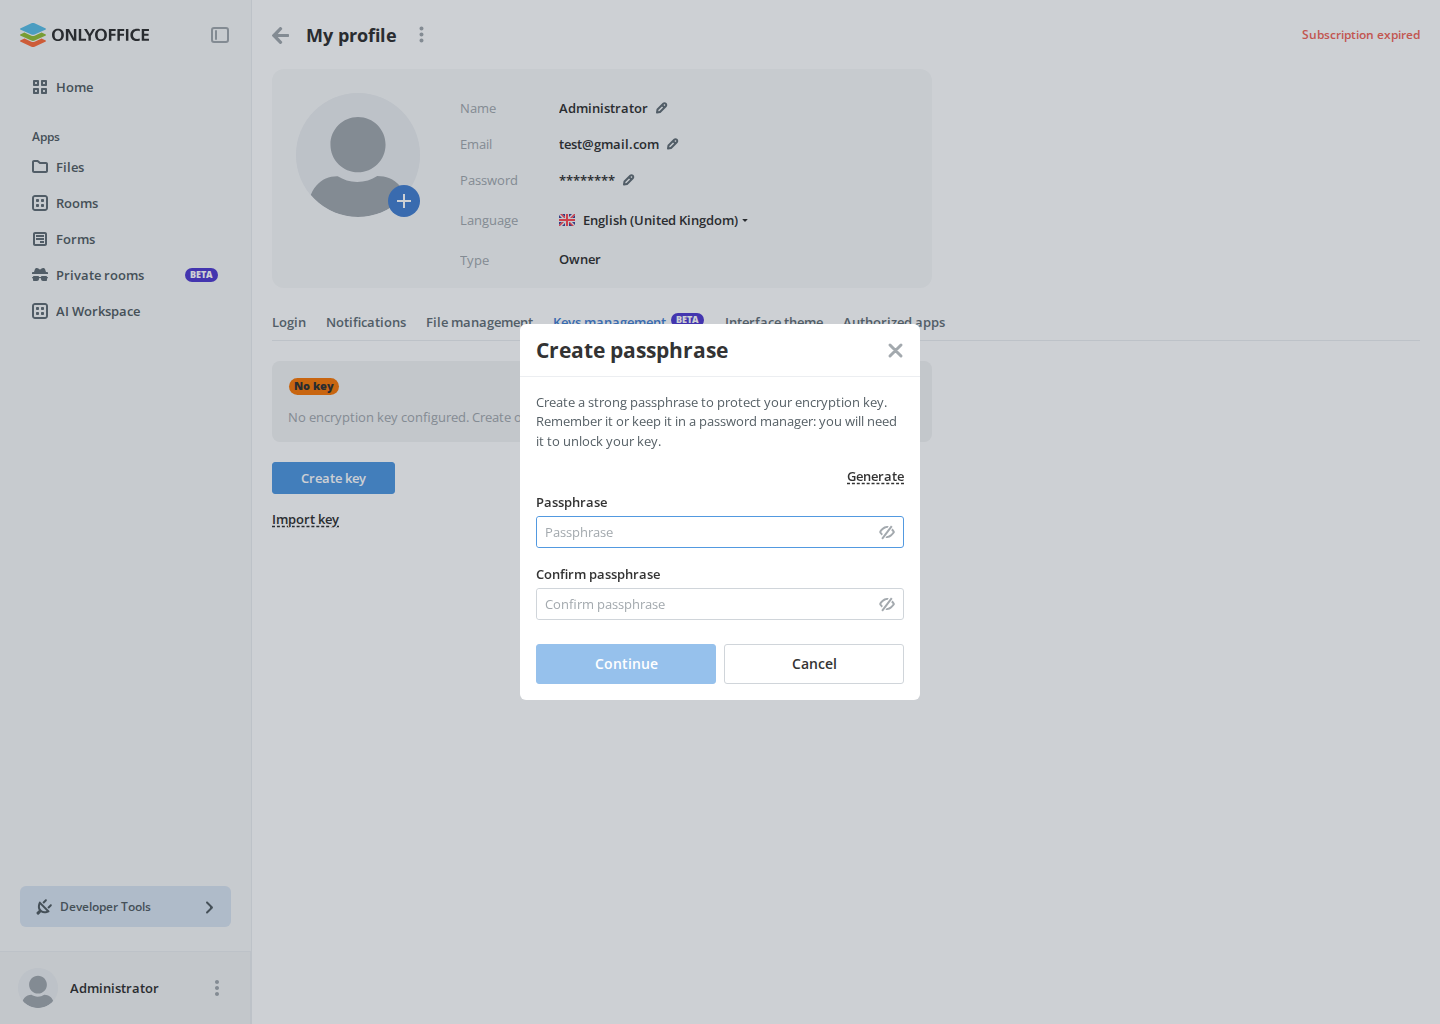
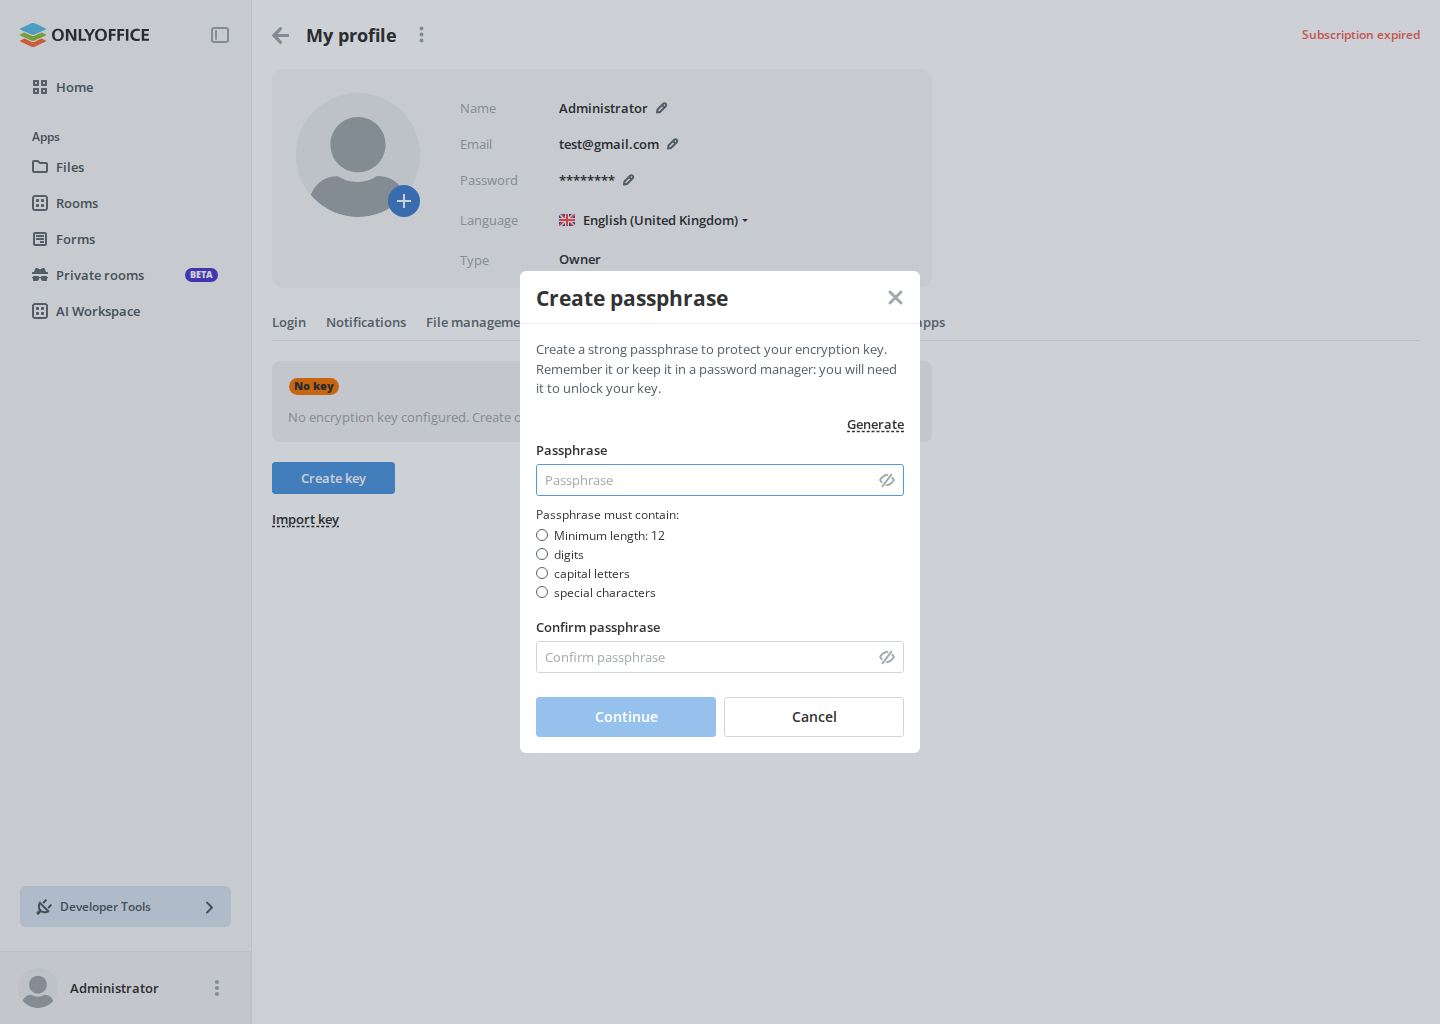
Shared: Private rooms: list the passphrase rules under the field
The rules of a new passphrase were the tooltip of the kit's password
input, which opened over the hint of the dialog and its generate action.
The key creation dialog and the passphrase change dialog now turn that
tooltip off and list the rules in the form, under the passphrase field,
each marked met or unmet as the user types. The list reads the rules
from the passphrase strength service, which checks them with the same
settings as the kit, so the list, the grade and the confirm action agree.

The screenshots of the creation dialog on a wide and a narrow screen are
updated for the list.

OpenSpec: private-rooms-release-ux-fixes 1.3

Changed region(s): [[0.3438, 0.25, 0.6562, 0.75]]

diff --git a/packages/shared/dialogs/passphrase-modal/PassphraseRulesList.tsx b/packages/shared/dialogs/passphrase-modal/PassphraseRulesList.tsx
@@ -1,0 +1,105 @@
+/*
+ * Copyright (C) Ascensio System SIA, 2009-2026
+ *
+ * This program is a free software product. You can redistribute it and/or
+ * modify it under the terms of the GNU Affero General Public License (AGPL)
+ * version 3 as published by the Free Software Foundation, together with the
+ * additional terms provided in the LICENSE file.
+ *
+ * This program is distributed WITHOUT ANY WARRANTY; without even the implied
+ * warranty of MERCHANTABILITY or FITNESS FOR A PARTICULAR PURPOSE. For
+ * details, see the GNU AGPL at: https://www.gnu.org/licenses/agpl-3.0.html
+ *
+ * You can contact Ascensio System SIA by email at info@onlyoffice.com
+ * or by postal mail at 20A-6 Ernesta Birznieka-Upisha Street, Riga,
+ * LV-1050, Latvia, European Union.
+ *
+ * The interactive user interfaces in modified versions of the Program
+ * are required to display Appropriate Legal Notices in accordance with
+ * Section 5 of the GNU AGPL version 3.
+ *
+ * No trademark rights are granted under this License.
+ *
+ * All non-code elements of the Product, including illustrations,
+ * icon sets, and technical writing content, are licensed under the
+ * Creative Commons Attribution-ShareAlike 4.0 International License:
+ * https://creativecommons.org/licenses/by-sa/4.0/legalcode
+ *
+ * This license applies only to such non-code elements and does not
+ * modify or replace the licensing terms applicable to the Program's
+ * source code, which remains licensed under the GNU Affero General
+ * Public License v3.
+ *
+ * SPDX-License-Identifier: AGPL-3.0-only
+ */
+
+import React from "react";
+import classNames from "classnames";
+import { useTranslation } from "react-i18next";
+
+import { Text } from "@onlyoffice/apps-ui-kit/components/text";
+
+import CheckIcon from "PUBLIC_DIR/images/check.react.svg";
+
+import {
+  PASSPHRASE_MIN_LENGTH,
+  checkPassphraseRules,
+} from "@docspace/shared/services/encryption/passphrase-strength";
+
+import styles from "./PassphraseModal.module.scss";
+
+type PassphraseRulesListProps = {
+  passphrase: string;
+};
+
+// Spec: private-rooms/key-management, "The list of passphrase rules leaves the dialog readable"
+export const PassphraseRulesList = ({ passphrase }: PassphraseRulesListProps) => {
+  const { t } = useTranslation(["Common"]);
+  const met = checkPassphraseRules(passphrase);
+
+  const rules = [
+    {
+      id: "length",
+      met: met.length,
+      label: `${t("Common:PasswordMinimumLength")}: ${PASSPHRASE_MIN_LENGTH}`,
+    },
+    { id: "digits", met: met.digits, label: t("Common:PasswordLimitDigits") },
+    {
+      id: "capital",
+      met: met.capital,
+      label: t("Common:PasswordLimitUpperCase"),
+    },
+    {
+      id: "special",
+      met: met.special,
+      label: t("Common:PasswordLimitSpecialSymbols"),
+    },
+  ];
+
+  return (
+    <div className={styles.rules} data-testid="passphrase_rules">
+      <Text fontSize="12px">
+        {`${t("Common:PassphraseLimitMessage")}:`}
+      </Text>
+      <ul className={styles.rulesList}>
+        {rules.map((rule) => (
+          <li
+            key={rule.id}
+            className={classNames(styles.rule, { [styles.ruleMet]: rule.met })}
+            data-testid={`passphrase_rule_${rule.id}`}
+            data-met={rule.met}
+          >
+            <span className={styles.ruleMark} aria-hidden="true">
+              {rule.met ? <CheckIcon /> : null}
+            </span>
+            <Text as="span" fontSize="12px">
+              {rule.label}
+            </Text>
+          </li>
+        ))}
+      </ul>
+    </div>
+  );
+};
+
+export default PassphraseRulesList;

diff --git a/packages/shared/dialogs/passphrase-modal/__tests__/PassphraseModal.test.tsx b/packages/shared/dialogs/passphrase-modal/__tests__/PassphraseModal.test.tsx
@@ -372,6 +372,83 @@ describe("PassphraseModal", () => {
     });
   });
 
+  describe("The list of passphrase rules leaves the dialog readable", () => {
+    const originalWidth = window.innerWidth;
+    const setWidth = (width: number) =>
+      Object.defineProperty(window, "innerWidth", {
+        configurable: true,
+        value: width,
+      });
+
+    afterEach(() => setWidth(originalWidth));
+
+    const follows = (first: Element, second: Element) =>
+      !!(
+        first.compareDocumentPosition(second) &
+        Node.DOCUMENT_POSITION_FOLLOWING
+      );
+
+    // The list sits in the flow of the form, between the passphrase field and
+    // its confirmation, and is the only place the rules are shown.
+    const expectRulesInFlow = () => {
+      const list = screen.getByTestId("passphrase_rules");
+      expect(list.closest("[role='tooltip'], .react-tooltip")).toBeNull();
+      expect(follows(getPassphraseInput(), list)).toBe(true);
+      expect(follows(list, getConfirmInput())).toBe(true);
+      expect(
+        screen.getAllByText("Common:PassphraseLimitMessage:"),
+      ).toHaveLength(1);
+      return list;
+    };
+
+    it("Rules shown while typing", async () => {
+      const user = userEvent.setup();
+      renderModal({ isNew: true });
+
+      await user.type(getPassphraseInput(), "lorem ipsum dolor sitx");
+
+      const list = expectRulesInFlow();
+      expect(within(list).getByTestId("passphrase_rule_length")).toHaveAttribute(
+        "data-met",
+        "true",
+      );
+      for (const rule of ["digits", "capital", "special"]) {
+        expect(
+          within(list).getByTestId(`passphrase_rule_${rule}`),
+        ).toHaveAttribute("data-met", "false");
+      }
+      expect(screen.getByText("Common:CreatePassphraseHint")).toBeVisible();
+      expect(screen.getByTestId("generate_passphrase_link")).toBeVisible();
+
+      await user.click(screen.getByTestId("generate_passphrase_link"));
+      for (const rule of ["length", "digits", "capital", "special"]) {
+        expect(
+          within(list).getByTestId(`passphrase_rule_${rule}`),
+        ).toHaveAttribute("data-met", "true");
+      }
+    });
+
+    it("Narrow screen", async () => {
+      setWidth(375);
+      const user = userEvent.setup();
+      const { onSubmit } = renderModal({ isNew: true });
+      const panel = document.querySelector<HTMLElement>(
+        "[class*='displayTypeAside']",
+      );
+      expect(panel).not.toBeNull();
+
+      await user.type(getPassphraseInput(), "Tx7$kp!aL2nQz@vR");
+
+      const list = expectRulesInFlow();
+      expect(panel).toContainElement(list);
+      await user.type(getConfirmInput(), "Tx7$kp!aL2nQz@vR");
+      await user.click(
+        screen.getByRole("button", { name: "Common:ContinueButton" }),
+      );
+      expect(onSubmit).toHaveBeenCalledWith("Tx7$kp!aL2nQz@vR", undefined);
+    });
+  });
+
   // Spec: private-rooms/key-management, "Key dialogs ignore a click beside them"
   it("Backdrop click on the unlock prompt", () => {
     const { onCancel } = renderModal();

diff --git a/packages/shared/services/encryption/passphrase-strength.ts b/packages/shared/services/encryption/passphrase-strength.ts
@@ -197,21 +197,36 @@ export function isPassphraseAcceptable(
   return result.strength !== "weak";
 }
 
-const COMPOSITION_RULES: ReadonlyArray<RegExp> = [
-  PASSPHRASE_SETTINGS.upperCaseRegexStr,
-  PASSPHRASE_SETTINGS.digitsRegexStr,
-  PASSPHRASE_SETTINGS.specSymbolsRegexStr,
-].map((rule) => new RegExp(rule));
+export type PassphraseRules = {
+  length: boolean;
+  capital: boolean;
+  digits: boolean;
+  special: boolean;
+};
+
+const CAPITAL_RULE = new RegExp(PASSPHRASE_SETTINGS.upperCaseRegexStr);
+const DIGITS_RULE = new RegExp(PASSPHRASE_SETTINGS.digitsRegexStr);
+const SPECIAL_RULE = new RegExp(PASSPHRASE_SETTINGS.specSymbolsRegexStr);
 
 /**
- * Whether a new passphrase meets the length, the composition and the
- * common-pattern rule, checked as the kit's password input checks the first
- * two with PASSPHRASE_SETTINGS.
+ * Which length and composition rules a new passphrase meets, checked as the
+ * kit's password input checks them with PASSPHRASE_SETTINGS.
  */
+export function checkPassphraseRules(passphrase: string): PassphraseRules {
+  return {
+    length: passphrase.trim().length >= PASSPHRASE_SETTINGS.minLength,
+    capital: CAPITAL_RULE.test(passphrase),
+    digits: DIGITS_RULE.test(passphrase),
+    special: SPECIAL_RULE.test(passphrase),
+  };
+}
+
+/** Whether a new passphrase meets the length, composition and common-pattern rules. */
 export function meetsPassphraseRules(passphrase: string): boolean {
-  if (passphrase.trim().length < PASSPHRASE_SETTINGS.minLength) return false;
-  if (!COMPOSITION_RULES.every((rule) => rule.test(passphrase))) return false;
-  return !containsCommonPattern(passphrase);
+  const rules = checkPassphraseRules(passphrase);
+  return (
+    Object.values(rules).every(Boolean) && !containsCommonPattern(passphrase)
+  );
 }
 
 // Spec: private-rooms/key-management, "The strength grade does not contradict the passphrase rules"

diff --git a/packages/client/src/pages/Profile/Section/Body/sub-components/keys-management/modals/KeyRotationDialog.tsx b/packages/client/src/pages/Profile/Section/Body/sub-components/keys-management/modals/KeyRotationDialog.tsx
@@ -59,6 +59,7 @@ import {
   isPassphraseAcceptable,
 } from "@docspace/shared/services/encryption/passphrase-strength";
 import { PASSPHRASE_SETTINGS } from "@docspace/shared/dialogs/passphrase-modal/PassphraseModal";
+import { PassphraseRulesList } from "@docspace/shared/dialogs/passphrase-modal/PassphraseRulesList";
 import { PassphraseStrengthLine } from "@docspace/shared/dialogs/passphrase-modal/PassphraseStrengthLine";
 
 import styles from "./KeyRotationDialog.module.scss";
@@ -292,13 +293,7 @@ export const KeyRotationDialog: React.FC<KeyRotationDialogProps> = ({
                   onValidateInput={(progressScore) =>
                     setRulesPassed(progressScore)
                   }
-                  tooltipPasswordTitle={`${t("Common:PassphraseLimitMessage")}:`}
-                  tooltipPasswordLength={`${t(
-                    "Common:PasswordMinimumLength",
-                  )}: ${PASSPHRASE_MIN_LENGTH}`}
-                  tooltipPasswordDigits={t("Common:PasswordLimitDigits")}
-                  tooltipPasswordCapital={t("Common:PasswordLimitUpperCase")}
-                  tooltipPasswordSpecial={t("Common:PasswordLimitSpecialSymbols")}
+                  isDisableTooltip
                   isDisabled={isLoading}
                   hasError={!!newFieldError}
                   autoComplete="new-password"
@@ -306,6 +301,7 @@ export const KeyRotationDialog: React.FC<KeyRotationDialogProps> = ({
                   tabIndex={0}
                 />
               </FieldContainer>
+              <PassphraseRulesList passphrase={newPassphrase} />
               <PassphraseStrengthLine passphrase={newPassphrase} />
             </div>
 

diff --git a/packages/shared/dialogs/passphrase-modal/PassphraseModal.tsx b/packages/shared/dialogs/passphrase-modal/PassphraseModal.tsx
@@ -71,6 +71,7 @@ import {
   isPassphraseAcceptable,
 } from "@docspace/shared/services/encryption/passphrase-strength";
 
+import { PassphraseRulesList } from "./PassphraseRulesList";
 import { PassphraseStrengthLine } from "./PassphraseStrengthLine";
 import styles from "./PassphraseModal.module.scss";
 
@@ -285,13 +286,7 @@ export const PassphraseModal: React.FC<PassphraseModalProps> = ({
                   onValidateInput={(progressScore) =>
                     setRulesPassed(progressScore)
                   }
-                  tooltipPasswordTitle={`${t("Common:PassphraseLimitMessage")}:`}
-                  tooltipPasswordLength={`${t(
-                    "Common:PasswordMinimumLength",
-                  )}: ${MIN_LENGTH}`}
-                  tooltipPasswordDigits={t("Common:PasswordLimitDigits")}
-                  tooltipPasswordCapital={t("Common:PasswordLimitUpperCase")}
-                  tooltipPasswordSpecial={t("Common:PasswordLimitSpecialSymbols")}
+                  isDisableTooltip
                   isDisabled={isLoading}
                   hasError={passphraseHasError}
                   isAutoFocussed
@@ -301,6 +296,7 @@ export const PassphraseModal: React.FC<PassphraseModalProps> = ({
                 />
               </FieldContainer>
 
+              {isNew ? <PassphraseRulesList passphrase={passphrase} /> : null}
               {isNew ? <PassphraseStrengthLine passphrase={passphrase} /> : null}
               {isNew && containsCommonPattern(passphrase) ? (
                 <Text fontSize="12px" color="var(--status-error)">

diff --git a/packages/shared/dialogs/passphrase-modal/PassphraseModal.module.scss b/packages/shared/dialogs/passphrase-modal/PassphraseModal.module.scss
@@ -92,6 +92,53 @@
   margin-top: 4px;
 }
 
+.rules {
+  display: flex;
+  flex-direction: column;
+  gap: 4px;
+  margin-top: 4px;
+}
+
+.rulesList {
+  display: flex;
+  flex-direction: column;
+  gap: 2px;
+  margin: 0;
+  padding: 0;
+  list-style: none;
+}
+
+.rule {
+  display: flex;
+  align-items: center;
+  gap: 6px;
+}
+
+.ruleMark {
+  display: inline-flex;
+  flex-shrink: 0;
+  align-items: center;
+  justify-content: center;
+  box-sizing: border-box;
+  width: 12px;
+  height: 12px;
+  border: 1px solid var(--text-secondary);
+  border-radius: 50%;
+
+  svg {
+    width: 12px;
+    height: 12px;
+  }
+
+  svg path {
+    fill: var(--status-icon-color-positive);
+  }
+}
+
+.ruleMet .ruleMark {
+  border-color: transparent;
+}
+
 .forgotRow {
   display: flex;
   justify-content: flex-start;

diff --git a/openspec/changes/private-rooms-release-ux-fixes/tasks.md b/openspec/changes/private-rooms-release-ux-fixes/tasks.md
@@ -8,7 +8,7 @@ and SDK unit tests must stay green.
 
 - [x] 1.1 Read how the kit's password input shows its rules and whether it can be shown without that tooltip; record the answer in design.md. Verify: the note in design.md names the kit file and the property, or states that the kit needs a switch
 - [x] 1.2 Cap the shown grade at `Common:PassphraseStrengthWeak` while the passphrase fails a rule, through one function used by creation and by the passphrase change (`packages/shared/dialogs/passphrase-modal/PassphraseModal.tsx`, `packages/client/src/pages/Profile/Section/Body/sub-components/keys-management/modals/KeyRotationDialog.tsx`). Verify: a unit test of the function and cases named after the scenarios of "The strength grade does not contradict the passphrase rules" in `packages/shared/dialogs/passphrase-modal/__tests__/PassphraseModal.test.tsx` and in `keys-management/modals/__tests__/KeyRotationDialog.test.tsx`
-- [ ] 1.3 After 1.1: list the rules under the passphrase field of both forms, marked met or unmet, and stop showing them in the tooltip; add the kit switch first if 1.1 found it missing (`docspace-ui-kit-react`, `release/v4.1.0`, `pnpm build && pnpm verify:package && pnpm pack`, then `pnpm run update-ui-kit`). Verify: cases "Rules shown while typing" and "Narrow screen" in `PassphraseModal.test.tsx`, the key dialog accessibility tests unchanged, and the screenshots of the creation dialog updated under Docker
+- [x] 1.3 After 1.1: list the rules under the passphrase field of both forms, marked met or unmet, and stop showing them in the tooltip; add the kit switch first if 1.1 found it missing (`docspace-ui-kit-react`, `release/v4.1.0`, `pnpm build && pnpm verify:package && pnpm pack`, then `pnpm run update-ui-kit`). Verify: cases "Rules shown while typing" and "Narrow screen" in `PassphraseModal.test.tsx`, the key dialog accessibility tests unchanged, and the screenshots of the creation dialog updated under Docker
 
 ## 2. Recovery phrase input
 

diff --git a/openspec/changes/private-rooms-release-ux-fixes/design.md b/openspec/changes/private-rooms-release-ux-fixes/design.md
@@ -68,8 +68,11 @@ Validation does not depend on it: `hooks/usePasswordInput.ts` calls
 `checkPassword` of `hooks/usePasswordValidation.ts` on every change outside
 `simpleView`, and that calls `onValidateInput(progressScore,
 passwordValidation)` with the result of each rule (`length`, `digits`,
-`capital`, `special`, `allowed`). The forms set `isDisableTooltip`, keep
-`simpleView` off, and draw the list from that second argument.
+`capital`, `special`, `allowed`). The forms set `isDisableTooltip` and keep
+`simpleView` off. The list and the shown grade read the rules from one
+function of the passphrase strength service, which checks them with the
+same settings and expressions as the kit, so the list, the grade and the
+enabled confirm action cannot disagree.
 
 ### 3. The recovery input checks the words before the phrase
 
